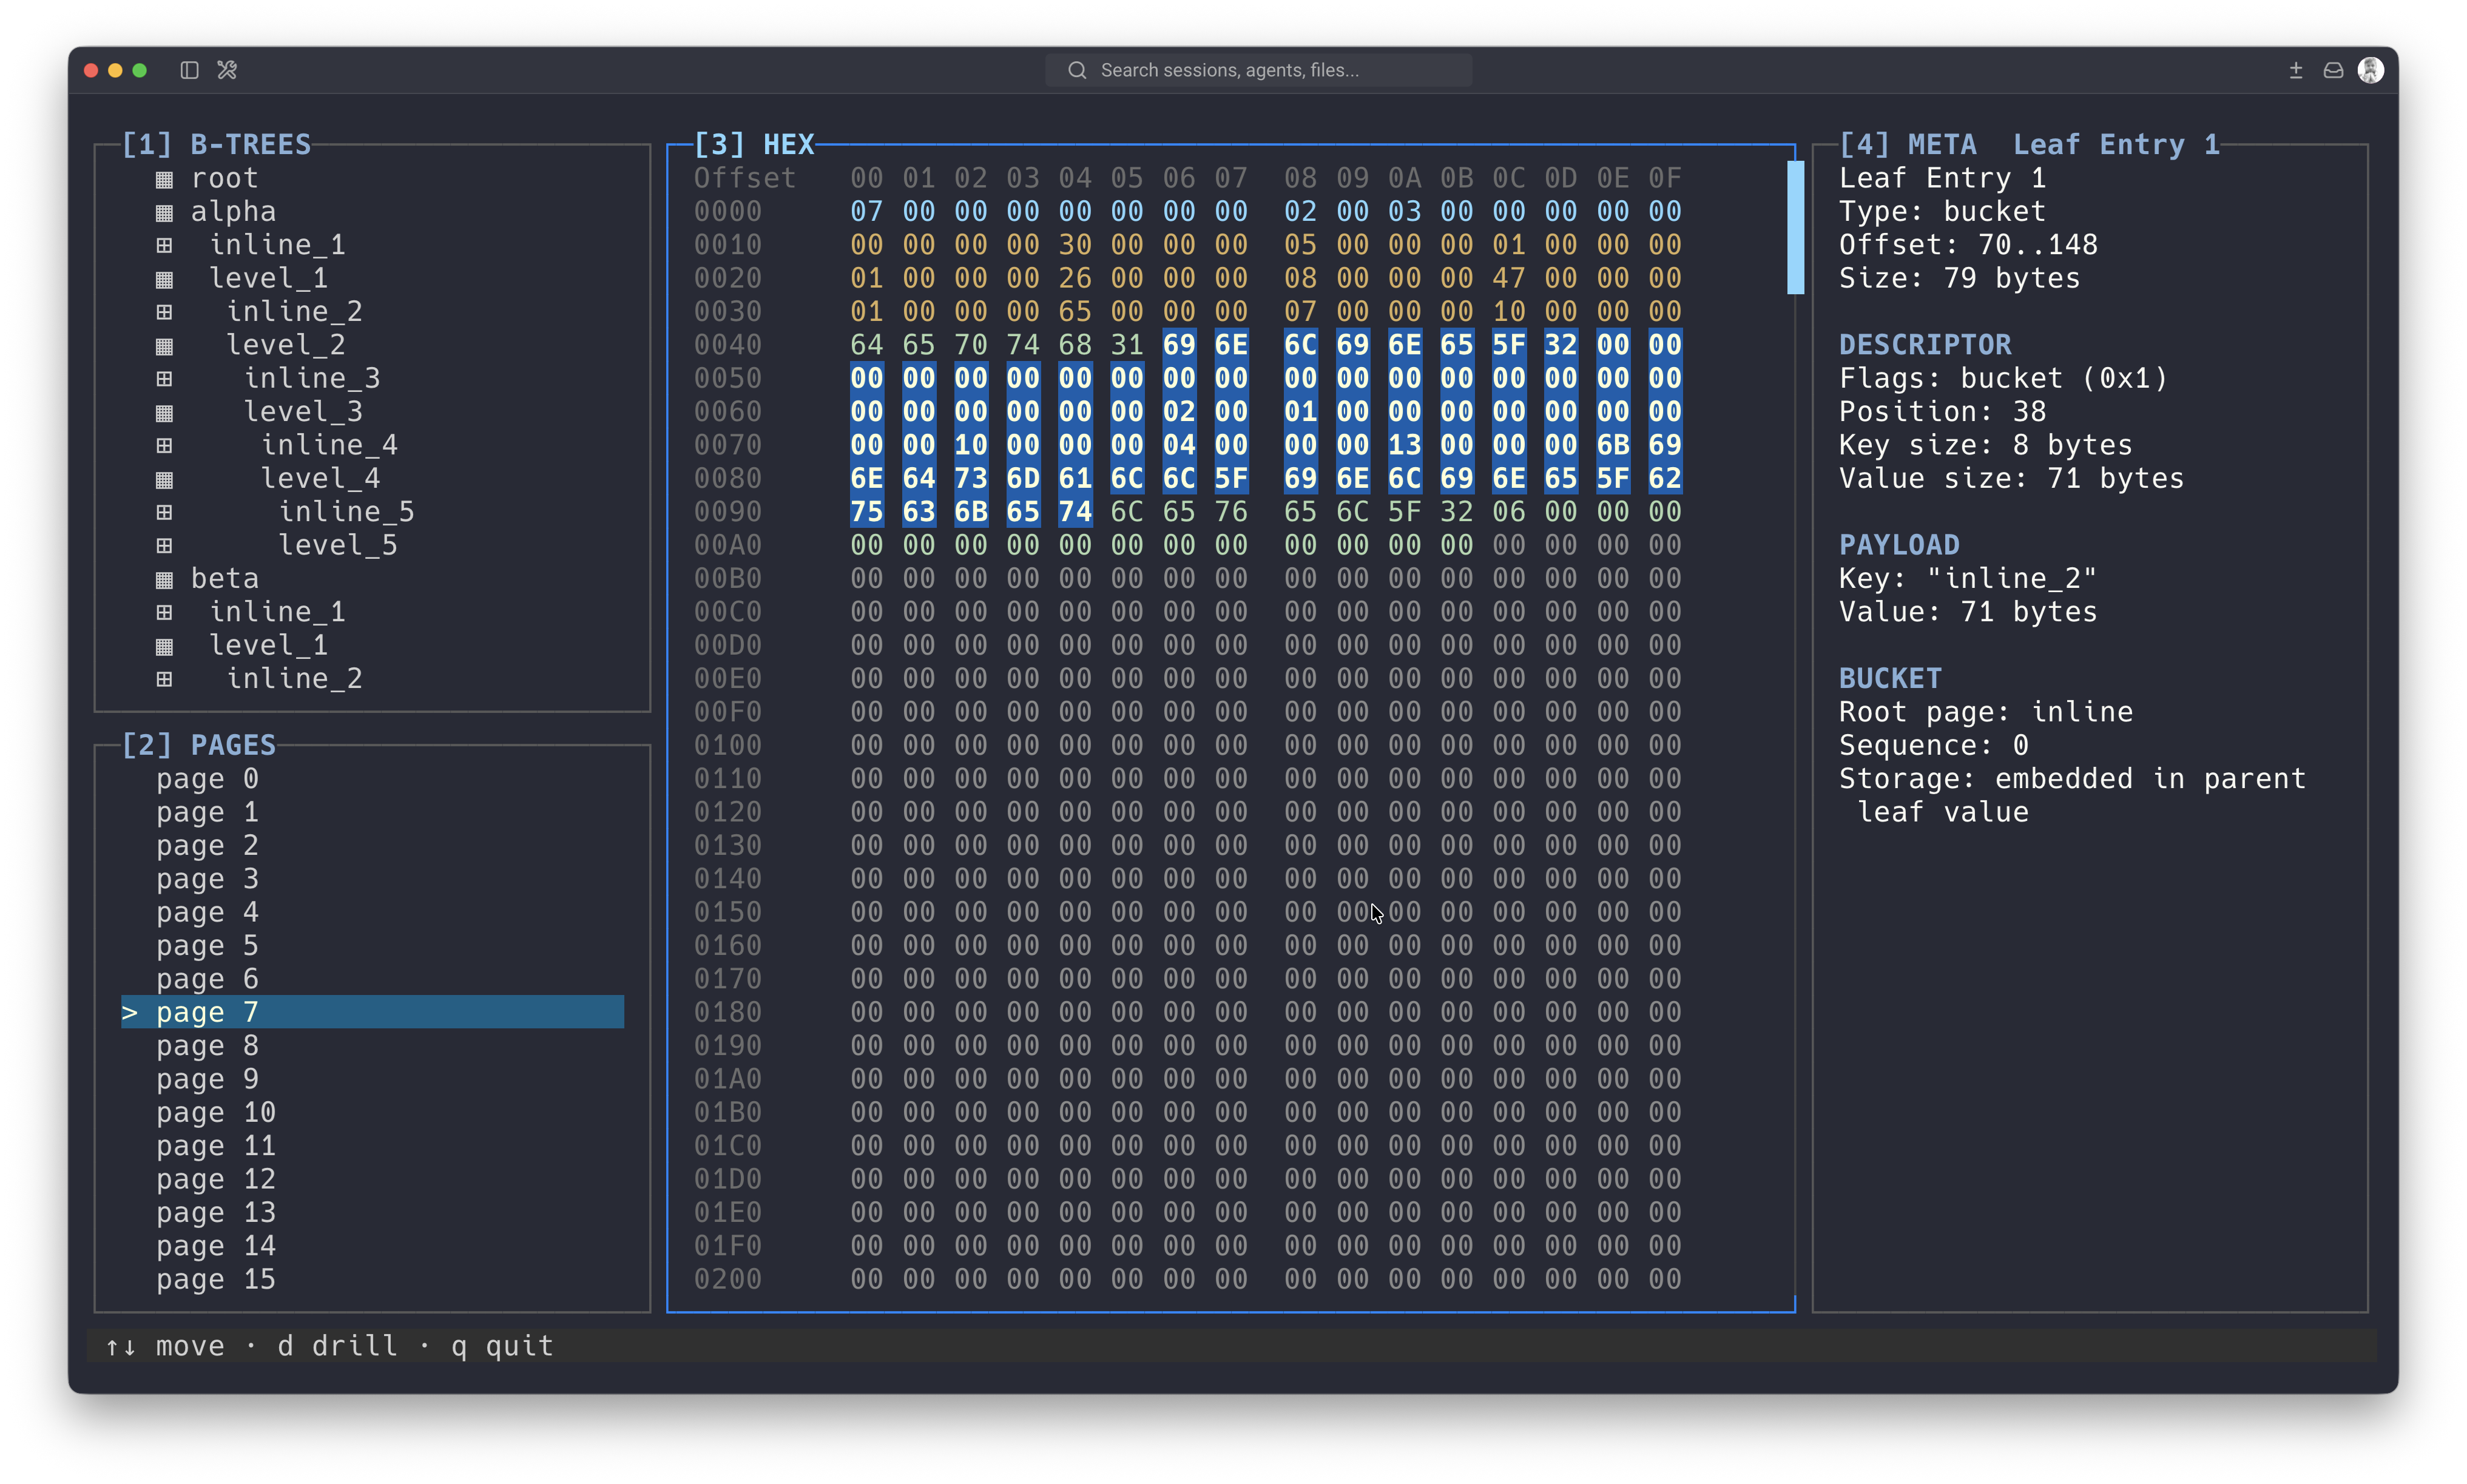
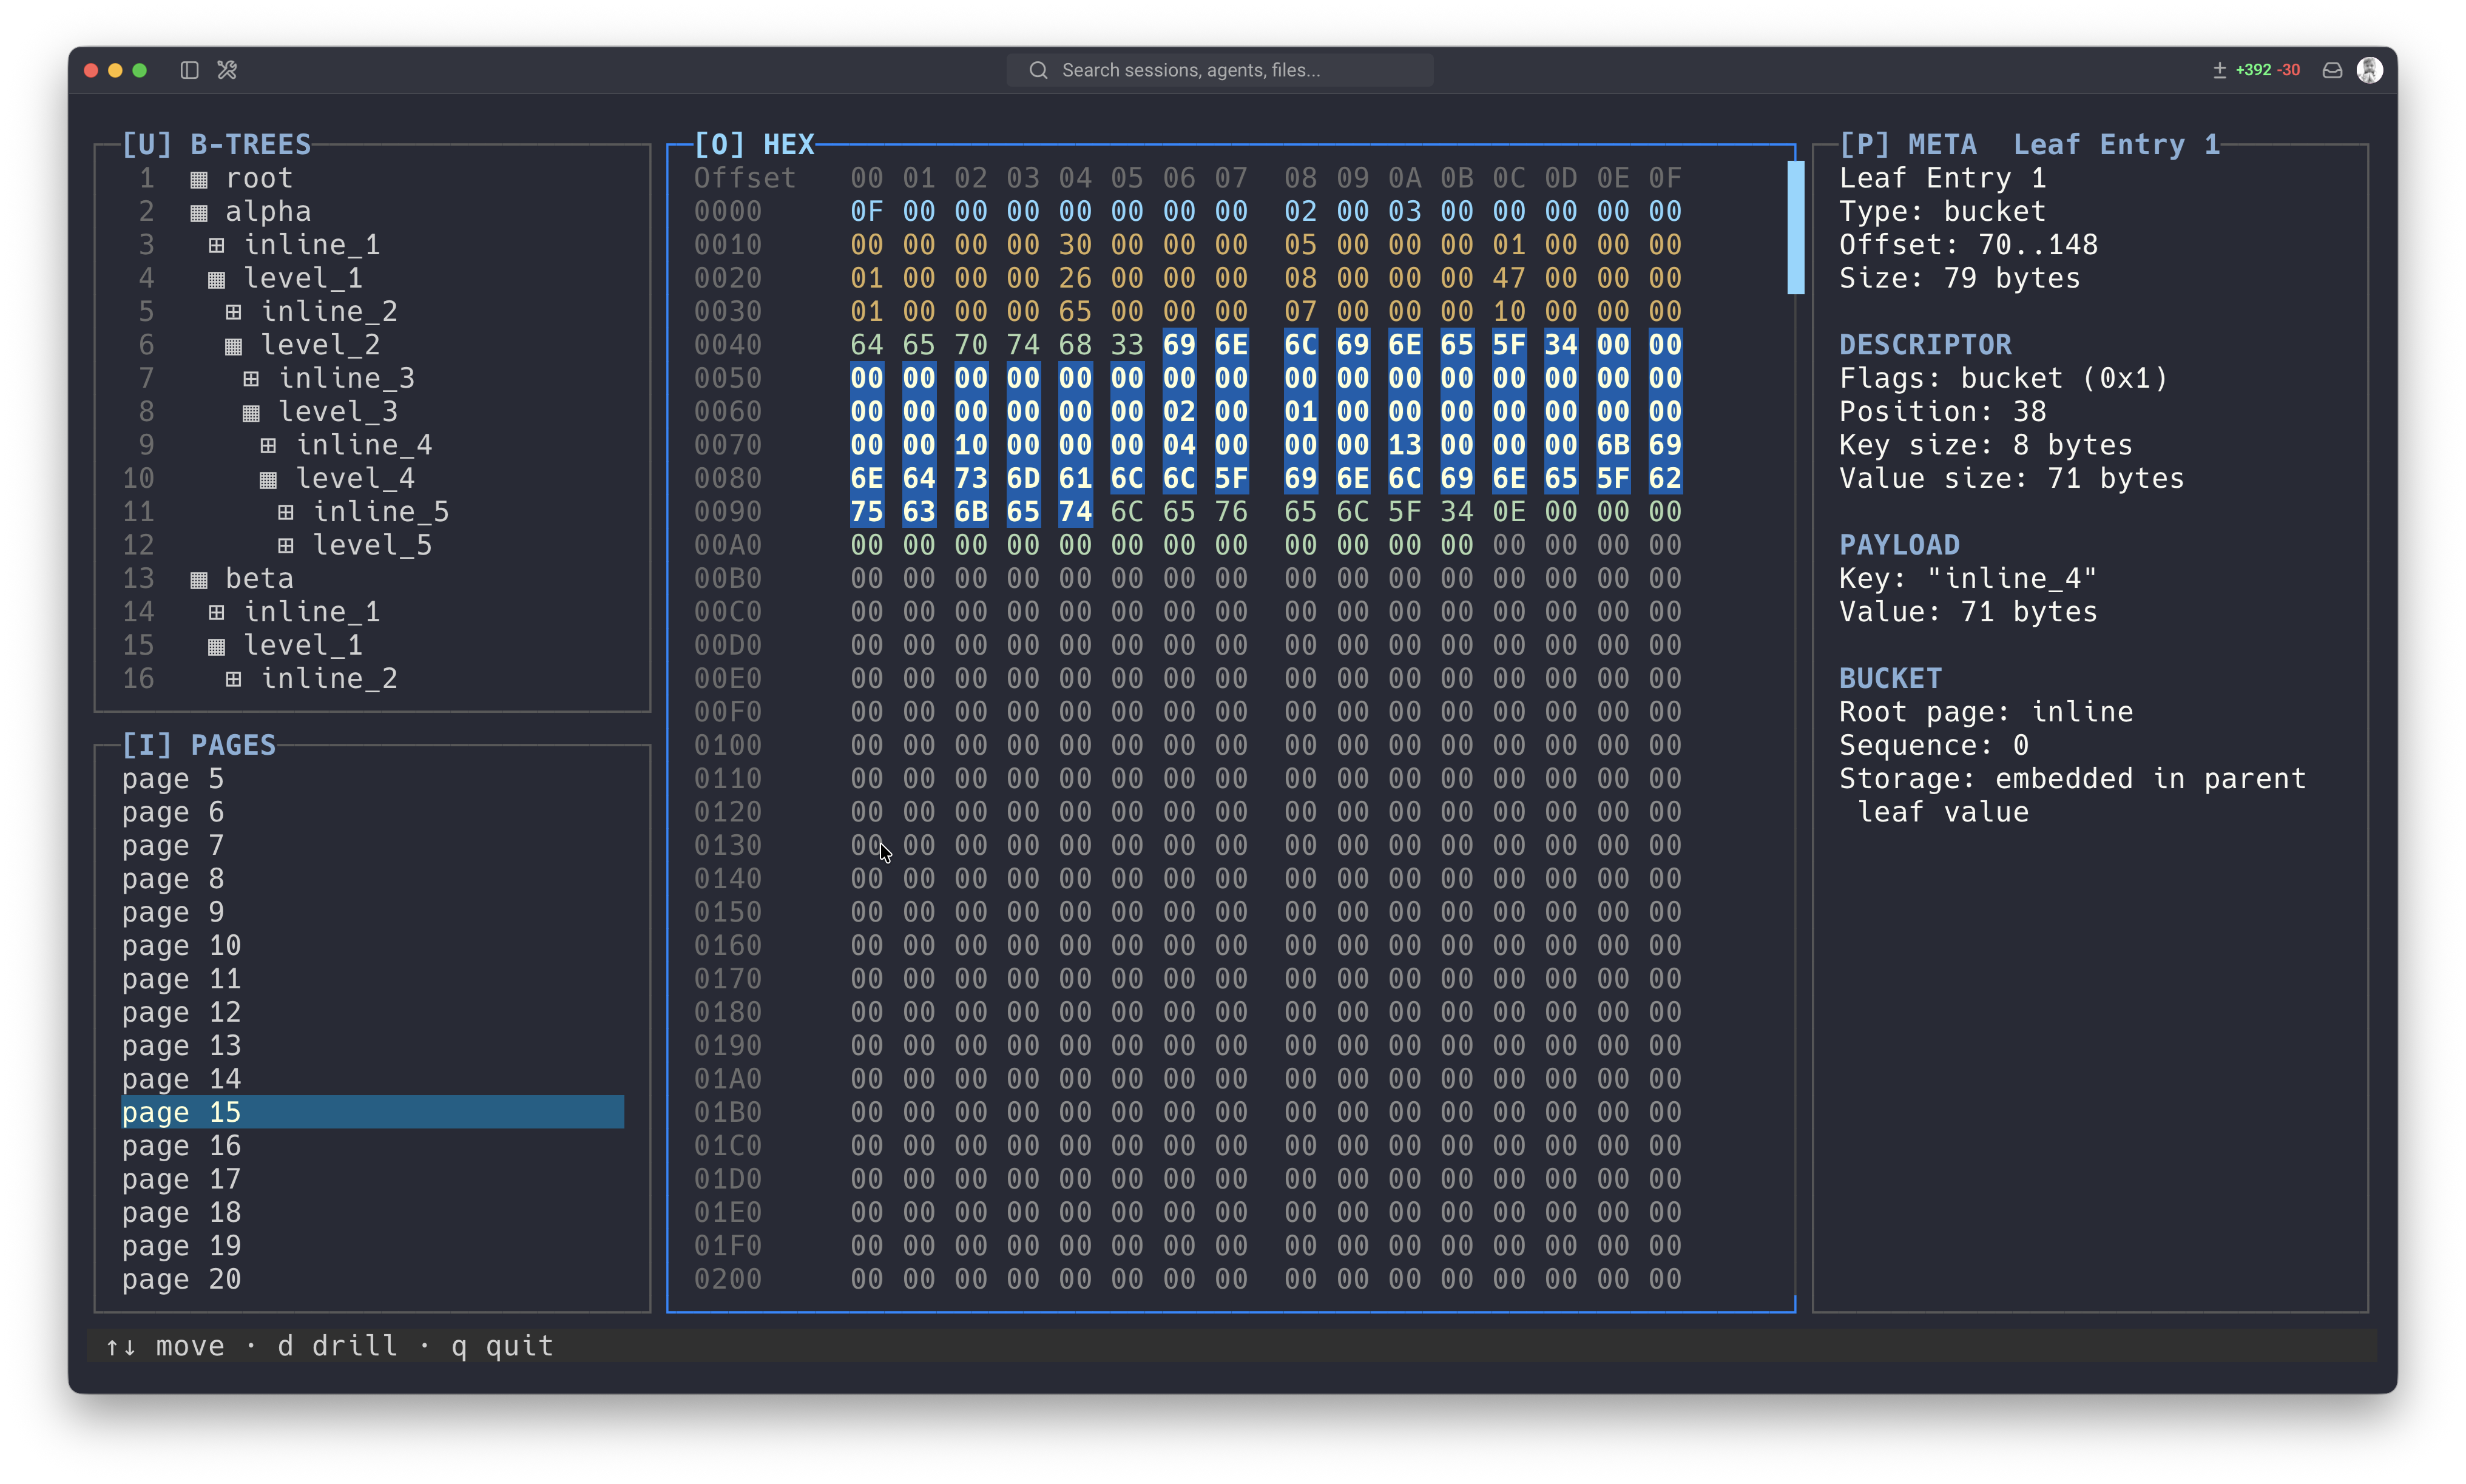
Updated readme with the latest demo and screenshots

diff --git a/README.md b/README.md
@@ -2,22 +2,29 @@
   <img src="docs/screenshots/badger-github-header.png" alt="Badger logo" width="1980" align="center">
 </p>
 
-
 Badger is a terminal UI for exploring SQLite and bbolt/BoltDB-compatible database files at the byte and page level.
 
-It is built for people who want to understand how embedded databases store data internally, using real files instead of logical query output. Badger detects supported formats by file content and lets you inspect database headers, storage objects, b-tree page sets, pages, cells, records, bucket entries, payloads, and raw byte ranges directly from the terminal.
+Use it to open a real database file and see how the data is laid out on disk: headers, b-trees, pages, cells, records, buckets, freelist data, overflow pages, continuation pages, and raw byte ranges.
+
+Badger is built for learning, debugging, and inspecting embedded database internals from the terminal. It detects supported formats from file contents, so SQLite and bbolt files do not need special extensions.
 
 ![Badger database overview](docs/screenshots/main_page.png)
 
-## Pre-Alpha Notice
+## Demo
 
-Badger is experimental and changing quickly. Commands, parser behavior, and TUI output may change as the project evolves.
+![Badger demo inspecting a Kubernetes etcd bbolt database](docs/demo/k8s-etcd-bbolt-demo.gif)
 
-The current focus is read-only inspection of SQLite and bbolt/BoltDB-compatible files. Badger is not a SQL client, does not mutate files, and does not decode application-specific bbolt values beyond bbolt-owned storage structures.
+## Why Use Badger?
+
+- Learn how SQLite and bbolt/BoltDB-compatible files are structured using real database files.
+- Inspect storage objects, physical pages, parsed metadata, and matching byte ranges in one TUI.
+- Explore bbolt files used by tools such as etcd without writing custom parser code.
+- Keep inspection read-only: Badger does not mutate database files.
+- See storage structures directly instead of only viewing logical SQL query output or application-level values.
 
 ## Requirements
 
-- Go `1.26.1`
+- Go `1.25` or newer
 - A terminal with enough space for the TUI panes
 
 ## Quick Start
@@ -28,7 +35,21 @@ Install with Go:
 go install github.com/nikitazigman/badger/cmd/badger@latest
 ```
 
-Make sure your Go binary directory is on your `PATH`. You can check it with:
+Open a database file:
+
+```bash
+badger path/to/database.db
+```
+
+Or try one of the included fixtures from a source checkout:
+
+```bash
+make build
+./bin/badger fixtures/companies.db
+./bin/badger fixtures/bbolt/users.db
+```
+
+If `badger` is not found after `go install`, make sure your Go binary directory is on your `PATH`:
 
 ```bash
 go env GOPATH
@@ -36,34 +57,22 @@ go env GOPATH
 
 By default, Go installs binaries into `$(go env GOPATH)/bin`.
 
-Build the binary:
+## Status
 
-```bash
-make build
-```
+Badger is pre-alpha and changing quickly. Commands, parser behavior, and TUI output may change as the project evolves.
 
-Run Badger against one of the included fixture databases:
+The current focus is read-only inspection of SQLite and bbolt/BoltDB-compatible files. Badger is not a SQL client, does not mutate files, and does not decode application-specific bbolt values beyond bbolt-owned storage structures.
 
-```bash
-./bin/badger fixtures/companies.db
-```
+## Usage
 
-Or open one of the included bbolt fixtures:
-
-```bash
-./bin/badger fixtures/bbolt/users.db
+```text
+badger <database-file>
 ```
 
 You can also run it through Go:
 
 ```bash
 make run ARGS="fixtures/companies.db"
-```
-
-## Usage
-
-```text
-badger <database-file>
 ```
 
 Examples:
@@ -92,8 +101,6 @@ For bbolt databases, Badger can inspect meta pages, freelist pages, branch pages
 ## TUI Navigation
 
 Badger opens directly into an interactive TUI.
-
-https://github.com/user-attachments/assets/f069f4f8-37b1-4748-ad33-55c68fe0ae27
 
 The interface has four key-labeled sections across three visual panes:
 